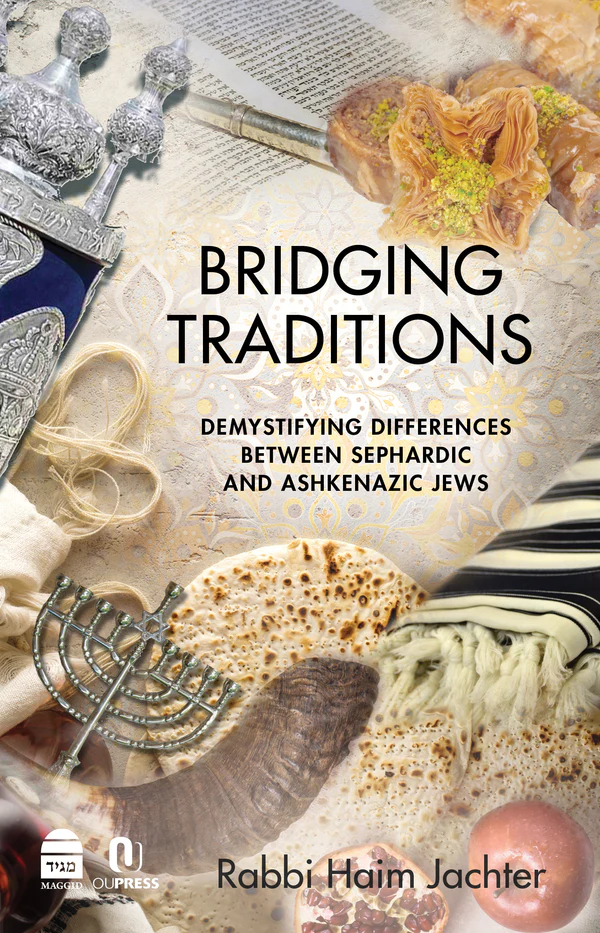
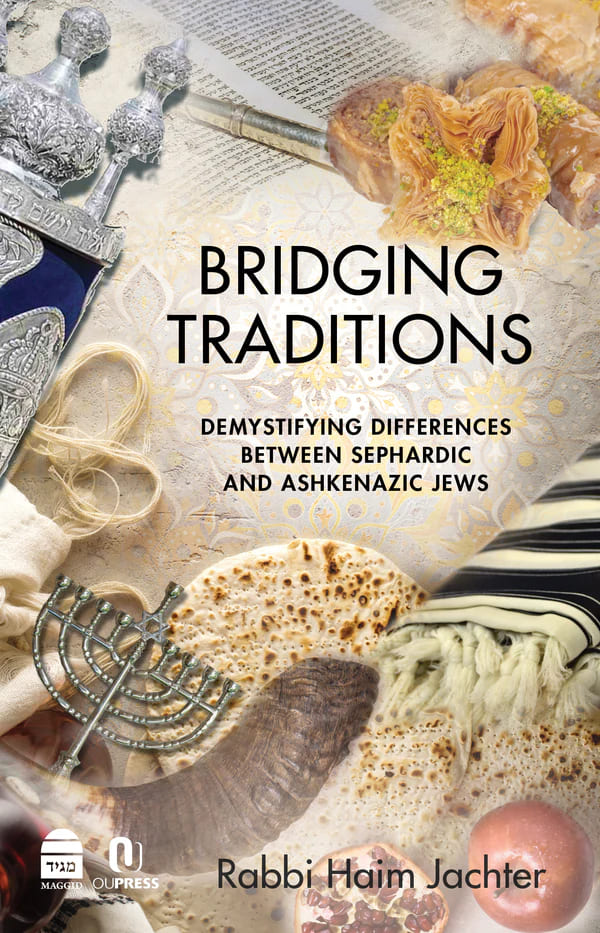
Added The Kosher Home, and compressed some images

diff --git a/index.html b/index.html
@@ -120,6 +120,12 @@
                 <a href="https://mekorjudaica.com/kitzur-shulchan-aruch-sephardic.html" target="_blank" rel="noopener noreferrer" class="seferTitle">Kitzur Shulchan Aruch</a>                
             </div>
             <div>
+                <a href="https://mekorjudaica.com/product/the-kosher-home-by-rabbi-michael-haber/" target="_blank" rel="noopener noreferrer">
+                    <img src="images/Kosher Home.jpg" alt="Kosher Home">
+                </a>                                
+                <a href="https://mekorjudaica.com/product/the-kosher-home-by-rabbi-michael-haber/" target="_blank" rel="noopener noreferrer" class="seferTitle">Kosher Home</a>                
+            </div> 
+            <div>
                 <a href="https://ashkenazibooks.com/collections/english-edition" target="_blank" rel="noopener noreferrer">
                     <img src="images/Kitzur Shulhan Aruch Hazon Ovadia.jpg" alt="Kitzur Shulhan Aruch Hazon Ovadia">
                 </a>                                
